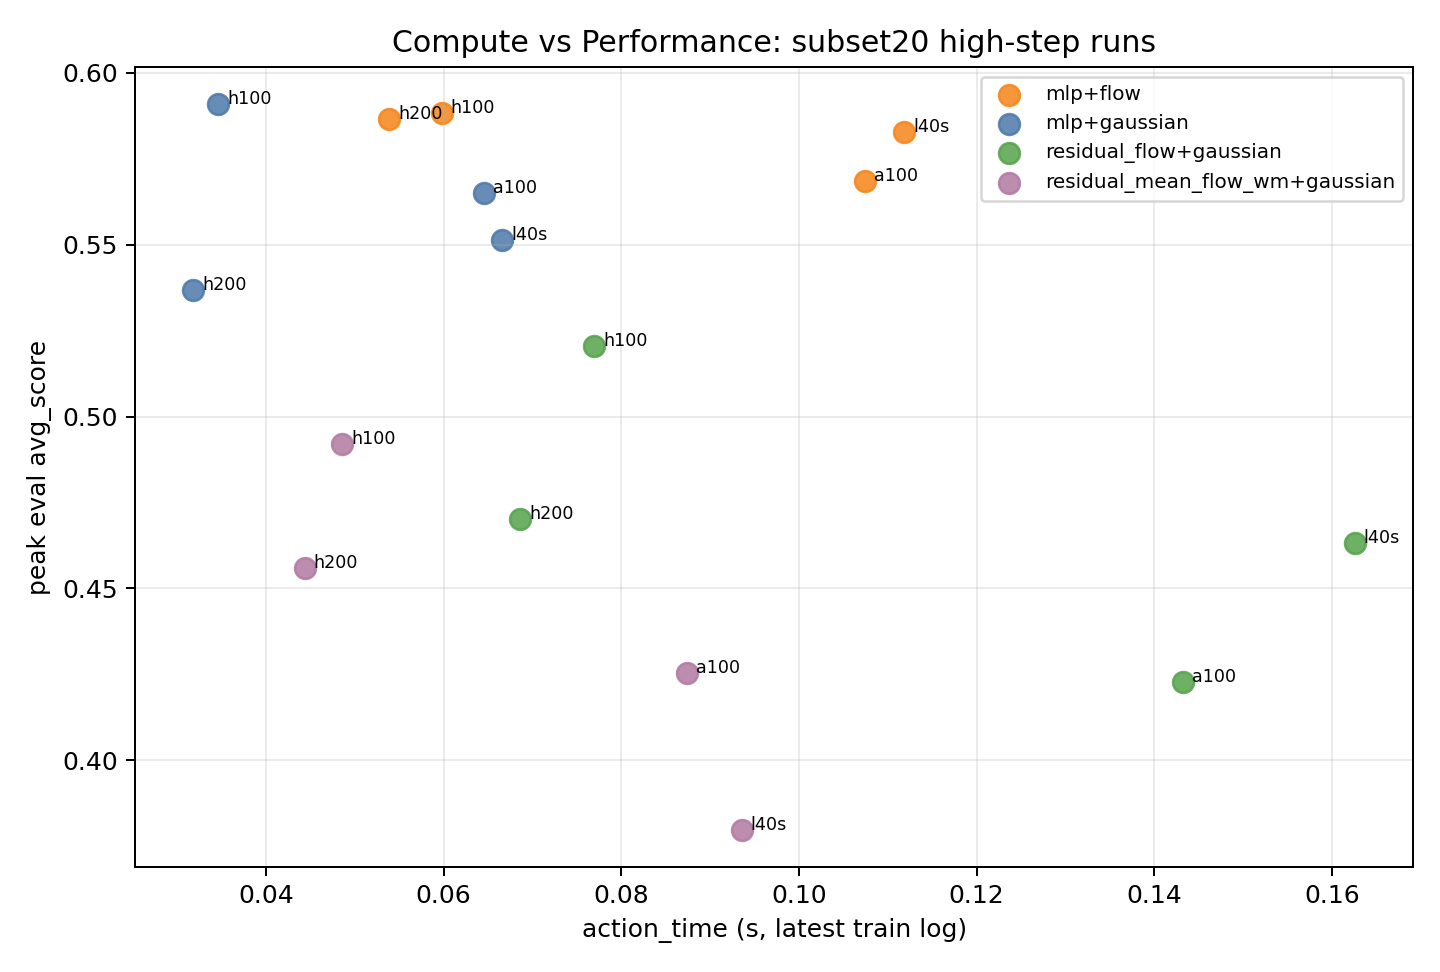
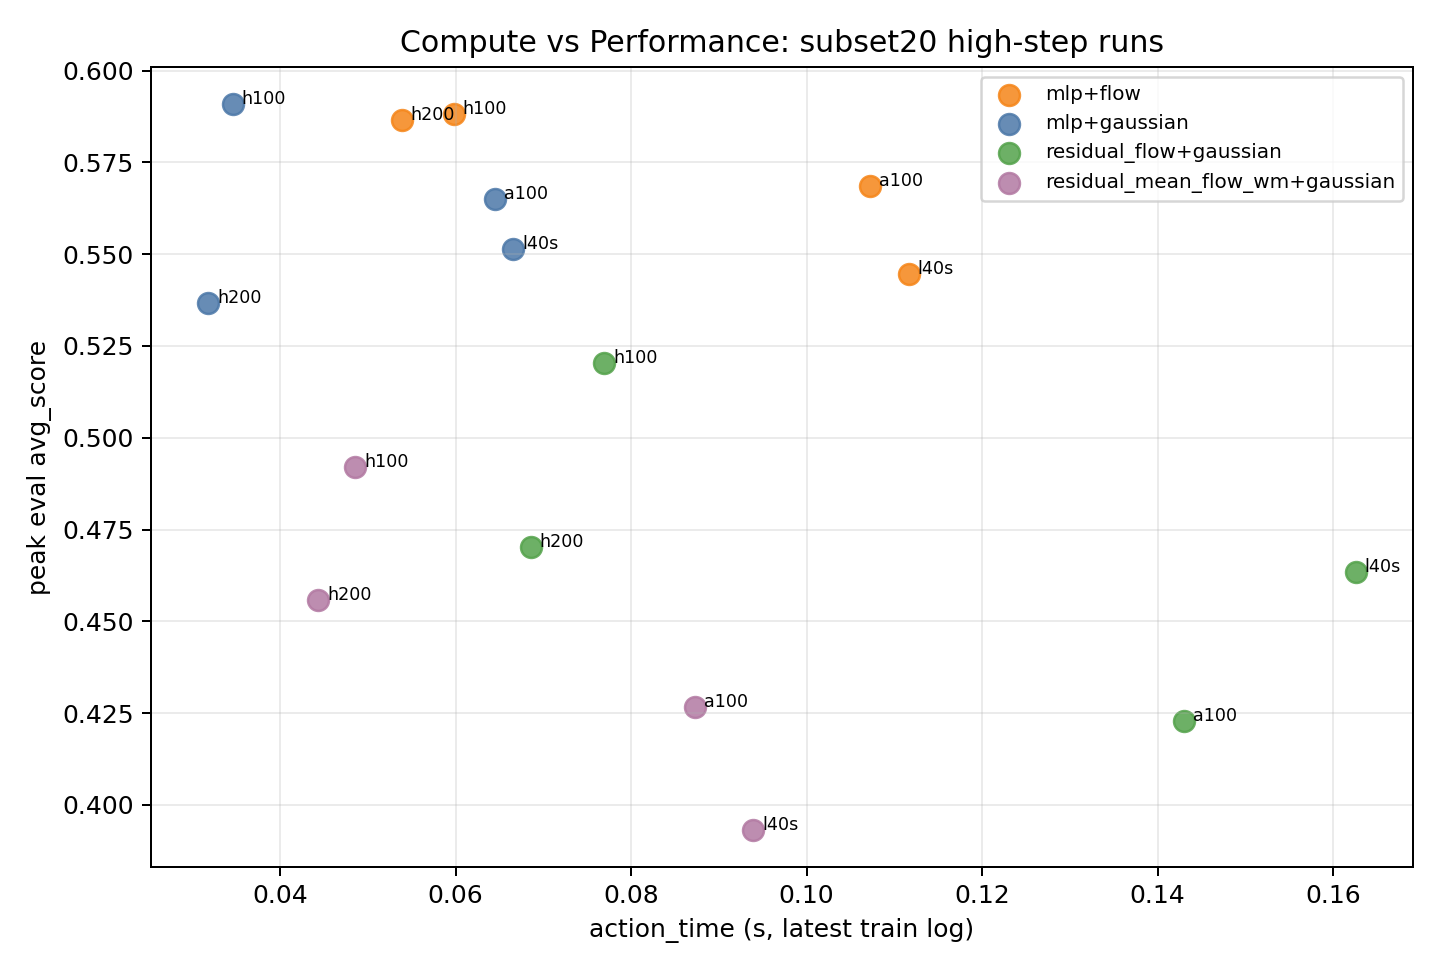
Record subset20 A100 completion

diff --git a/docs/experiment_results_summary.md b/docs/experiment_results_summary.md
@@ -1,6 +1,6 @@
 # Experiment Results Summary
 
-Last updated: 2026-06-10 21:42 EDT
+Last updated: 2026-06-10 22:41 EDT
 
 Metric: `avg_score`, the Newt/MMBench normalized score averaged over evaluated tasks. This is the same normalized-score definition used by the official Newt paper, but our local subset20/subset40 results are not directly comparable to the official 200-task protocol.
 
@@ -64,14 +64,14 @@ Metric: `avg_score`, the Newt/MMBench normalized score averaged over evaluated t
 | Subset20 10M high-step | 20 | 10M target + 50k demo | MLP | Gaussian | H200 | resubmitted | 9.8M | 0.46450 | Preempted near target and resubmitted as `9809460_[0]`; peak observed eval was 0.53666 at 7.4M. |
 | Subset20 10M high-step | 20 | 10M target + 50k demo | MLP | flow | H100 | complete | 10.0M | 0.50044 | Reached 10M; peak observed eval was 0.58825 at 4.0M. |
 | Subset20 10M high-step | 20 | 10M target + 50k demo | MLP | flow | H200 | resubmitted | 9.0M | 0.58255 | Continuing toward 10M; peak observed eval was 0.58663 at 8.8M. |
-| Subset20 10M high-step | 20 | 10M target + 50k demo | MLP | Gaussian | A100 | running | 9.8M | 0.51270 | Active as `9796335_0`; peak observed eval was 0.56490 at 9.4M. |
-| Subset20 10M high-step | 20 | 10M target + 50k demo | MLP | flow | A100 | running | 7.8M | 0.53052 | Active as `9796335_1`; peak observed eval was 0.56850 at 6.8M. |
+| Subset20 10M high-step | 20 | 10M target + 50k demo | MLP | Gaussian | A100 | complete | 10.0M | 0.53570 | Completed 10M; peak observed eval was 0.56490 at 9.4M. |
+| Subset20 10M high-step | 20 | 10M target + 50k demo | MLP | flow | A100 | running | 8.2M | 0.53745 | Active as `9796335_1`; peak observed eval was 0.56850 at 6.8M. |
 | Subset20 10M high-step | 20 | 10M target + 50k demo | residual_flow | Gaussian | L40S | resubmitted | 5.8M | 0.46335 | Preempted at 5.90M train and resubmitted as `9798924_[2-3]`. |
-| Subset20 10M high-step | 20 | 10M target + 50k demo | residual_mean_flow_wm | Gaussian | A100 | running | 6.4M | 0.37361 | Active as `9796335_3`; peak observed eval was 0.42541 at 4.4M. |
-| Subset20 10M high-step | 20 | 10M target + 50k demo | residual_mean_flow_wm | Gaussian | H200 | running | 8.0M | 0.43618 | Active as `9797383_3`; peak observed eval was 0.45594 at 7.0M. |
+| Subset20 10M high-step | 20 | 10M target + 50k demo | residual_mean_flow_wm | Gaussian | A100 | running | 6.8M | 0.42658 | Active as `9796335_3`; best A100 residual_mean snapshot so far. |
+| Subset20 10M high-step | 20 | 10M target + 50k demo | residual_mean_flow_wm | Gaussian | H200 | resubmitted | 8.2M | 0.45312 | Preempted after 8.25M checkpoint and resubmitted as `9813253_[3]`; peak observed eval was 0.45594 at 7.0M. |
 | Subset20 10M high-step | 20 | 10M target + 50k demo | residual_mean_flow_wm | Gaussian | H100 | complete | 10.0M | 0.48851 | Completed 10M despite Slurm preemption label; peak observed eval was 0.49207 at 9.2M. |
 | Subset20 10M high-step | 20 | 10M target + 50k demo | residual_flow | Gaussian | H100 | resubmitted | 7.8M | 0.52048 | Preempted after strongest flow-WM snapshot and resubmitted as `9809461_[2]`. |
-| Subset20 10M high-step | 20 | 10M target + 50k demo | residual_flow | Gaussian | A100 | running | 5.2M | 0.38966 | Active as `9796335_2`; peak observed eval was 0.42288 at 4.8M. |
+| Subset20 10M high-step | 20 | 10M target + 50k demo | residual_flow | Gaussian | A100 | running | 5.4M | 0.41459 | Active as `9796335_2`; peak observed eval was 0.42288 at 4.8M. |
 | Subset20 10M high-step | 20 | 10M target + 50k demo | residual_mean_flow_wm | Gaussian | L40S | resubmitted | 6.6M | 0.37317 | Preempted at 6.74M train and resubmitted as `9798924_[2-3]`. |
 | Subset20 10M high-step | 20 | 10M target + 50k demo | residual_flow | Gaussian | H200 | resubmitted | 6.0M | 0.40036 | Below MLP cells. |
 

diff --git a/docs/subset20_high_steps_plan.md b/docs/subset20_high_steps_plan.md
@@ -670,6 +670,55 @@ Current read:
 - H100 `residual_flow + gaussian` is the best flow-WM signal so far, reaching `0.52048` at 7.8M. This supports the hypothesis that flow-WM needs more per-task interaction, but it still does not beat MLP-WM peak performance and remains slower.
 - The most robust completed original-style baseline is still H100 `mlp + gaussian`: final `0.53816`, peak `0.59102`.
 
+## 2026-06-10 22:41 EDT Monitoring and Continuation
+
+Queue and accounting check:
+
+- Running:
+  - `9796335_[1-3]`: A100 `mlp + flow`, `residual_flow + gaussian`, and `residual_mean_flow_wm + gaussian`.
+  - `9809461_2`: H100 `residual_flow + gaussian` continuation.
+  - `9797385_1`: L40S `mlp + flow` continuation.
+  - `9798924_[2-3]`: L40S flow-WM continuations.
+- Pending:
+  - `9796333_[1-2]`: H200 `mlp + flow` and `residual_flow + gaussian`.
+  - `9809460_[0]`: H200 `mlp + gaussian` continuation.
+  - `9813253_[3]`: H200 `residual_mean_flow_wm + gaussian` continuation.
+- Newly completed/stopped:
+  - `9796335_0`: A100 `mlp + gaussian` completed 10M successfully.
+  - `9797383_3`: H200 `residual_mean_flow_wm + gaussian` preempted after reaching 8.28M train / 8.2M eval.
+
+Repair submission:
+
+| Job | Partition | Array | Run tag | Cell |
+| ---: | --- | --- | --- | --- |
+| `9813253` | `gpu-h200` | `3` | `h200-r1` | `residual_mean_flow_wm + gaussian` continuation from latest checkpoint. |
+
+Latest highest-step eval snapshot:
+
+| Run | Highest train step | Highest eval step | `avg_score` | Peak `avg_score` | Status |
+| --- | ---: | ---: | ---: | ---: | --- |
+| H100 `mlp + gaussian` | 10.0M | 10.0M | 0.53816 | 0.59102 | complete |
+| A100 `mlp + gaussian` | 10.0M | 10.0M | 0.53570 | 0.56490 | complete |
+| H100 `mlp + flow` | 10.0M | 10.0M | 0.50044 | 0.58825 | complete |
+| L40S `mlp + gaussian` | 10.0M | 10.0M | 0.48801 | 0.55139 | complete |
+| H200 `mlp + gaussian` | 9.98M | 9.8M | 0.46450 | 0.53666 | pending continuation |
+| H200 `mlp + flow` | 9.06M | 9.0M | 0.58255 | 0.58663 | pending continuation |
+| A100 `mlp + flow` | 8.22M | 8.2M | 0.53745 | 0.56850 | running |
+| L40S `mlp + flow` | 7.94M | 7.8M | 0.52493 | 0.54459 | running |
+| H100 `residual_flow + gaussian` | 7.88M | 7.8M | 0.52048 | 0.52048 | running continuation |
+| H200 `residual_mean_flow_wm + gaussian` | 8.28M | 8.2M | 0.45312 | 0.45594 | resubmitted |
+| A100 `residual_mean_flow_wm + gaussian` | 6.90M | 6.8M | 0.42658 | 0.42658 | running |
+| A100 `residual_flow + gaussian` | 5.52M | 5.4M | 0.41459 | 0.42288 | running |
+| L40S `residual_flow + gaussian` | 5.90M | 5.8M | 0.46335 | 0.46335 | running continuation |
+| L40S `residual_mean_flow_wm + gaussian` | 6.80M | 6.8M | 0.39305 | 0.39305 | running continuation |
+| H200 `residual_flow + gaussian` | 6.12M | 6.0M | 0.40036 | 0.47019 | pending continuation |
+
+Current read:
+
+- A100 `mlp + gaussian` gives a second completed original-style baseline near H100: final `0.53570` vs H100 final `0.53816`.
+- H100 `residual_flow + gaussian` remains the strongest flow-WM signal at `0.52048`, but it still needs continuation to 10M to know whether it holds.
+- H200 `residual_mean_flow_wm + gaussian` recovered to `0.45312` at 8.2M but is still below H100 `residual_flow`; it was resubmitted to continue toward 10M.
+
 ## Success Criteria
 
 Primary metric:

diff --git a/docs/ablation_insights_summary.md b/docs/ablation_insights_summary.md
@@ -19,8 +19,8 @@ Important caveat: `mean +/- std` below is over completed local runs across GPU/r
 | Official TD-MPC2 single-task | 200 | 1B total across 200 single-task agents | MLP WM | Gaussian + MPC | 1B | 0.800 | n/a | Upper reference, not a multitask agent. |
 | Our subset40 best completed 2x2 | 40 | 5M + 50k demo | MLP WM | Flow policy | 5M | 0.321 +/- 0.012 | 0.339 | Mean +/- std over 4 completed runs; best single run 0.339. Best completed 2x2 architecture. |
 | Our subset40 best flow-WM | 40 | 5M + 50k demo | Residual_flow WM | Gaussian | 5M | 0.232 +/- 0.027 | 0.256 | Mean +/- std over 4 completed runs; best single run 0.256. Best flow-WM variant, still below MLP WM. |
-| Our subset20 strongest signal | 20 | 10M target + 50k demo | MLP WM | Flow policy | 7.6M-10.0M current | 0.500-0.583 | 0.588 | Best peak architecture signal; H100 reached 10M but final dipped below its earlier peak. |
-| Our subset20 promising flow-WM | 20 | 10M target + 50k demo | Residual_flow WM | Gaussian | 4.8M-7.8M current | 0.400-0.520 | 0.520 | Flow-WM improves with more steps; H100 residual_flow is now the strongest flow-WM signal, but still below MLP-WM peak and slower. |
+| Our subset20 strongest signal | 20 | 10M target + 50k demo | MLP WM | Flow policy | 7.8M-10.0M current | 0.500-0.583 | 0.588 | Best peak architecture signal; H100 reached 10M but final dipped below its earlier peak. |
+| Our subset20 promising flow-WM | 20 | 10M target + 50k demo | Residual_flow WM | Gaussian | 5.4M-7.8M current | 0.400-0.520 | 0.520 | Flow-WM improves with more steps; H100 residual_flow is now the strongest flow-WM signal, but still below MLP-WM peak and slower. |
 
 ## Architecture Ablation
 
